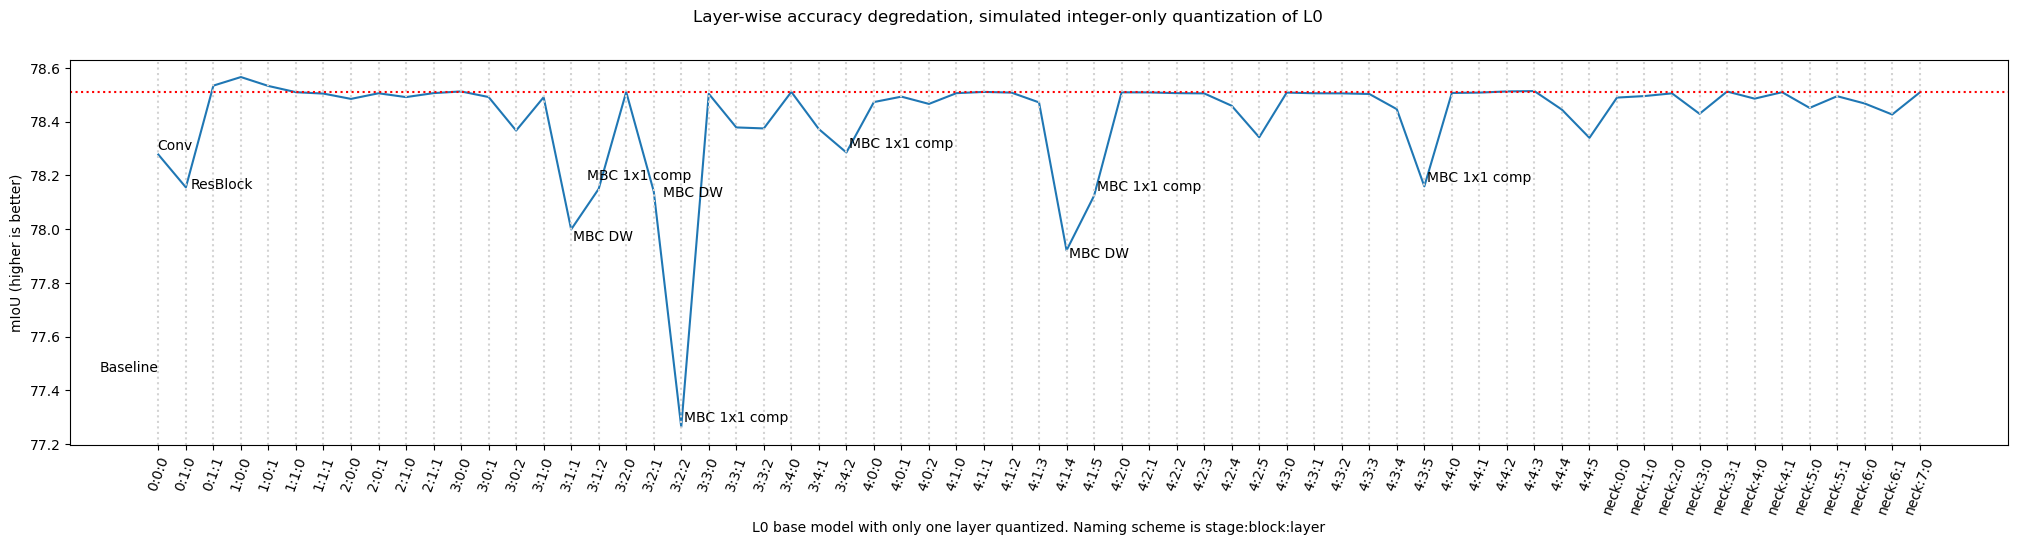
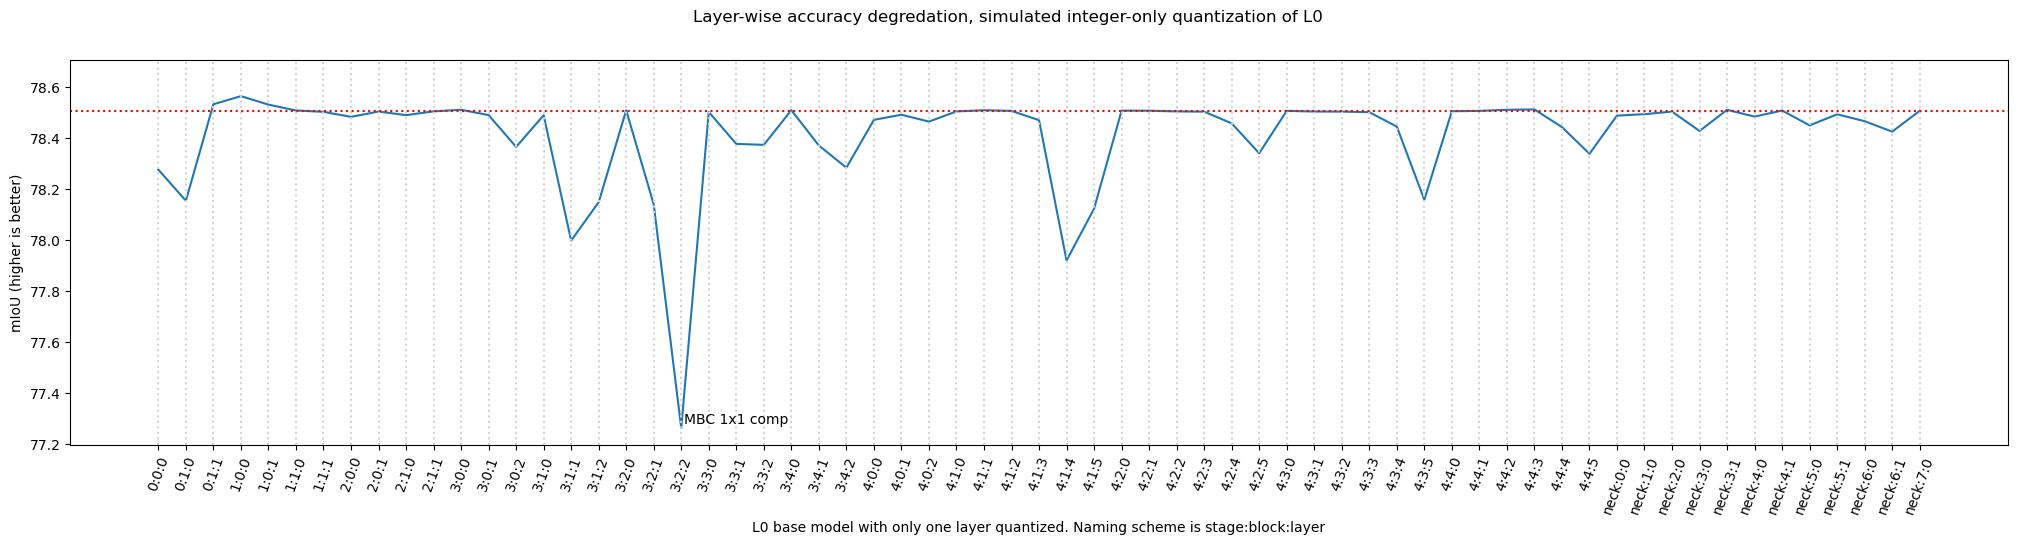
Running weight-only of L0,L2,XL1 with minmax

diff --git a/data_analytics.py b/data_analytics.py
@@ -34,8 +34,12 @@ def plot(df, title: str, xlabel: str, name: str, model: str = 'L0', prompt_type:
         description_dict = REGISTERED_BACKBONE_DESCRIPTIONS_LARGE
 
     baseline_value=baselines_box[model]
-    zoom_lower_limit=77
-    zoom_upper_limit= 80 # baseline_value + 0.2
+    zoom_lower_limit=76
+    zoom_upper_limit = baseline_value + 0.2
+    #if zoom:
+    #    zoom_upper_limit = 80
+    #else:
+    #    zoom_upper_limit = baseline_value + 0.2
     texts = []
     
     if prompt_type == 'box' or prompt_type == 'point':
@@ -59,7 +63,7 @@ def plot(df, title: str, xlabel: str, name: str, model: str = 'L0', prompt_type:
         # Add description to each data point where 'all' score is substantially lower than baseline
         for i, val in df.iterrows(): # index and row data
             if zoom:
-                if val[performance_measure] < baseline_value-0.1:
+                if val[performance_measure] < baseline_value-0.3:
                     # using adjustText library to avoid overlapping text
                     texts.append(ax.text(val['backbone_version'], val['adjusted_performance_measure'], f"{description_dict[val['backbone_version']]}"))
             else:
@@ -73,7 +77,7 @@ def plot(df, title: str, xlabel: str, name: str, model: str = 'L0', prompt_type:
     for x in df['backbone_version']:
         ax.axvline(x, color='lightgray', linestyle='dotted')
     ax.axhline(baseline_value, color='red', linestyle='dotted')
-    ax.text(0, baseline_value - 0.1 if zoom else baseline_value - 1, 'Baseline', va='top', ha="right")
+    #ax.text(0, baseline_value - 0.1 if zoom else baseline_value - 1, 'Baseline', va='top', ha="right")
 
     ax.set_xlabel(xlabel)
     ax.set_ylabel('mIoU (higher is better)')
@@ -83,6 +87,9 @@ def plot(df, title: str, xlabel: str, name: str, model: str = 'L0', prompt_type:
         ax.set_ylim([zoom_lower_limit,zoom_upper_limit])
         save_name = f'./plots/graphs/{name}_zoom.png'
     else:
+        ax = plt.gca()  # get current axes
+        ymin, _ = ax.get_ylim()  # get the current lower limit
+        ax.set_ylim(ymin, zoom_upper_limit)  # set the new upper limit
         save_name = f'./plots/graphs/{name}.png'
 
     plt.suptitle(title)

diff --git a/efficientvit/models/efficientvit/sam.py b/efficientvit/models/efficientvit/sam.py
@@ -410,7 +410,8 @@ class EfficientViTSamImageEncoder(nn.Module):
                                 count_affected = count_affected + 1
                                 if printout: print(f"{attribute} == {attribute_goal_state} for {m.block_name}-layer with id {m.stage_id}:{m.block_position}:{m.layer_position}", f"                module {count_all} of type {type(m)}:")
                             else:
-                                print(f"Warning: {attribute} does not exist in module: {m}")
+                                if type(m) in [QConvLayer, QConvLayerV2]: # its okay for QLiteMLA to not have all attributes
+                                    print(f"Warning: {attribute} does not exist in module: {m}")
                         else:
                             if printout: print(f"Attribute {attribute} on module {m.stage_id}:{m.block_position}:{m.layer_position} was not affected due to layer condition", f"                module {count_all} of type {type(m)}:")
                     else:

diff --git a/configs/quant_backbones_zoo.py b/configs/quant_backbones_zoo.py
@@ -41,13 +41,13 @@ def create_backbone_baselines():
             'stages': [],
             'block_positions': [],
             'layer_positions': [],
-            },
+            }
     for m in models:
         backbone_dict[f'{m}:all:all:all'] =  {
                 'stages': ["unknown", "stage0", "stage1", "stage2", "stage3", "stage4", "stage5", "neck"],
                 'block_positions': [0,1,2,3,4,5,6,7,8,9,10,11,12,13,14,15], # includes all, as the deepest stage has 15 blocks counted from 0.
                 'layer_positions': [0,1,2,3,4,5,6,7,8,9], # includes all
-            },
+            }
     return backbone_dict
 
 

diff --git a/efficientvit/models/ptq/observer/percentile.py b/efficientvit/models/ptq/observer/percentile.py
@@ -13,9 +13,10 @@ class PercentileObserver(BaseObserver):
                  bit_type,
                  calibration_mode,
                  percentile_sigma=0.01,
-                 percentile_alpha=0.99999):
+                 percentile_alpha=0.99999,
+                 **kwargs):
         super(PercentileObserver, self).__init__(module_type, bit_type,
-                                                 calibration_mode)
+                                                 calibration_mode, **kwargs)
         self.percentile_sigma = 0.01
         self.percentile_alpha = 0.99999
         self.symmetric = self.bit_type.signed

diff --git a/efficientvit/models/ptq/observer/ema.py b/efficientvit/models/ptq/observer/ema.py
@@ -10,9 +10,10 @@ class EmaObserver(BaseObserver):
                  module_type,
                  bit_type,
                  calibration_mode,
-                 ema_sigma=0.01):
+                 ema_sigma=0.01,
+                 **kwargs):
         super(EmaObserver, self).__init__(module_type, bit_type,
-                                          calibration_mode)
+                                          calibration_mode, **kwargs)
         self.ema_sigma = ema_sigma
         self.symmetric = self.bit_type.signed
 

diff --git a/efficientvit/models/ptq/observer/omse.py b/efficientvit/models/ptq/observer/omse.py
@@ -7,9 +7,9 @@ from .utils import lp_loss
 
 class OmseObserver(BaseObserver):
 
-    def __init__(self, module_type, bit_type, calibration_mode):
+    def __init__(self, module_type, bit_type, calibration_mode, **kwargs):
         super(OmseObserver, self).__init__(module_type, bit_type,
-                                           calibration_mode)
+                                           calibration_mode, **kwargs)
 
     def update(self, v):
         v = self.reshape_tensor(v)

diff --git a/efficientvit/models/ptq/observer/base.py b/efficientvit/models/ptq/observer/base.py
@@ -3,7 +3,6 @@ import torch
 
 
 class BaseObserver:
-
     def __init__(
         self,
         module_type,
